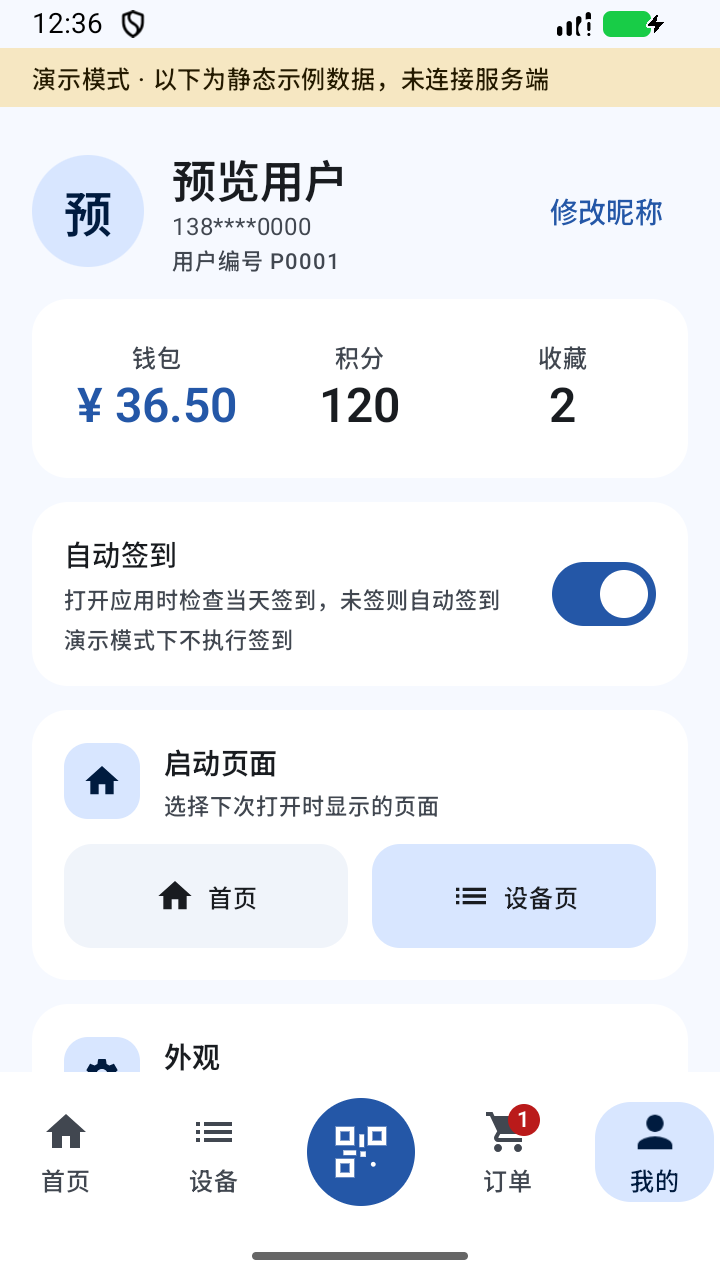
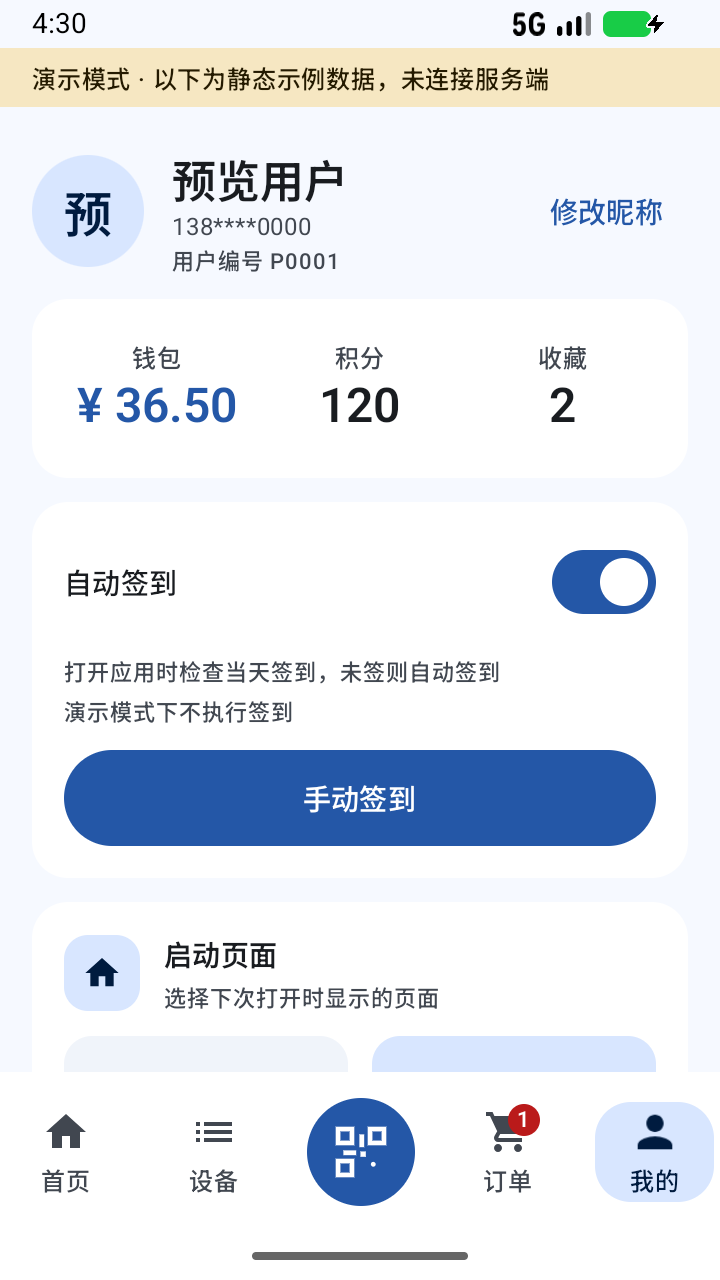
chore(release): 1.13.0
准备 versionCode 42 与同签名本地 APK，同步版本、当前我的截图及验证边界。
界面回归等待我的页面可访问后再定位手动入口，避免导航过渡导致误滚动。
未打 tag、未发布 Release。

diff --git a/SmartLife798/app/src/androidTest/java/com/smartlife798/app/CheckInUiChecks.kt b/SmartLife798/app/src/androidTest/java/com/smartlife798/app/CheckInUiChecks.kt
@@ -169,8 +169,8 @@ object CheckInUiChecks {
 
             stage = "My page keeps manual action available when automation is off"
             click(test, "我的")
-            reveal(test, "手动签到")
             await { find(test, "自动签到开关") != null }
+            reveal(test, "手动签到")
             click(test, "自动签到开关")
             await { !vm.autoCheckIn.value && !Store.autoCheckIn() }
             check(actionNode(test, "手动签到").isEnabled)
@@ -307,6 +307,7 @@ object CheckInUiChecks {
                 ?: error("Scrollable page unavailable")
             check(scroll.performAction(AccessibilityNodeInfo.ACTION_SCROLL_FORWARD))
             test.waitForIdleSync()
+            SystemClock.sleep(150)
         }
         error("UI action not visible")
     }

diff --git a/README.md b/README.md
@@ -5,7 +5,7 @@
 | | |
 |---|---|
 | 新客户端包名 | `com.smartlife798.app` |
-| 当前版本 | `1.12.0`（`versionCode 41`） |
+| 当前版本 | `1.13.0`（`versionCode 42`） |
 | 技术栈 | Kotlin 2.2 · Jetpack Compose (Material 3 Expressive) · OkHttp · CameraX + ML Kit · Alipay / WeChat SDK |
 | 最低版本 | Android 7.0（API 24） |
 | 最新已发布 | [1.9.7 APK](https://github.com/wu-shanglin/Smartlife798/releases/download/v1.9.7/SmartLife798-1.9.7-debug.apk) · [Release 说明](https://github.com/wu-shanglin/Smartlife798/releases/tag/v1.9.7) |
@@ -14,7 +14,7 @@
 
 ## 当前版本
 
-- **1.12.0：弹性联动与账号功能（本地交付准备，未发布）**。设备筛选、模式、支付方式与设置选择使用官方按钮组相互挤压回弹，刷新使用中性容器与主题主色形变；支持修改昵称、网络头像、服务端记住「使用积分」，以及可关闭的默认每日自动签到。请求防重发、失败保留及演示隔离已验证；真实服务端接受与积分入账仍待验。最新已发布仍为 1.9.7，以下发布策略针对该版本；工程证据与未验边界见 [docs/05](docs/05-真实支付与计费实测.md#9-工程验证记录)。
+- **1.13.0：签到结果反馈与手动入口（本地交付准备，未发布）**。首页也会提示自动签到结果；「我的」可关闭自动签到并手动签到，处理中显示形变加载并防重复。先查询、提交后确认，失败原因可见，自动不重发不明请求，手动可明确重试；兼容原版缺省周位图。修复退出/迟到登录、账号缓存隔离、提示遮挡导航和窄屏按钮覆盖。昵称、记住使用积分及网络头像已复核；真实服务端接受与入账仍待验。最新已发布仍为 1.9.7，工程证据与未验边界见 [docs/05](docs/05-真实支付与计费实测.md#9-工程验证记录)。
 
 - **1.9.7：详情加载与更新进度**。合并详情首载期间的刷新，避免取消重发；更新进度固定在弹窗按钮上方，仅显示进度和状态，不随日志滚动。已正式发布普通更新，最低支持码保留 37，1.9.6 用户可稍后更新。
 - **1.9.6：强制更新返回退出**。返回退出应用并保留更新限制，重新打开仍须更新；下载忙碌时也可退出，外部点击不能绕过。普通更新返回只关闭弹窗。旧 APK 的返回行为需升级后才能修复。
@@ -49,7 +49,7 @@
 
 | 本地构建 | 文件 |
 |---|---|
-| 产物 | [`dist/SmartLife798-1.12.0-debug.apk`](dist/SmartLife798-1.12.0-debug.apk) |
+| 产物 | [`dist/SmartLife798-1.13.0-debug.apk`](dist/SmartLife798-1.13.0-debug.apk) |
 
 原 APK、静态分析缓存、`evidence/` 及 APK 不入库。原样本、签名、本机配置、当前交付和独有证据须保留；清理规则见 [文档与目录维护](docs/06-工程规范与路线图.md#4-文档与目录维护)。
 

diff --git a/docs/02-功能设计与UI方案.md b/docs/02-功能设计与UI方案.md
@@ -354,7 +354,7 @@ App
 
 ## 7. 界面截图
 
-截图使用独立无账号 API 36/36.1 模拟器（720 × 1280、360dp、默认字体）采集。设备、详情、我的与外观于 2026-10-26 使用 1.12.0 / versionCode 41 本地构建采集，同名覆盖；消费记录、待付款和账单详情保留 1.11.0 / 40；首页与深色首页保留 1.10.0 / 39；登录、扫码与手动输入保留 1.8.0 / 30 历史展示。登录页为匿名页面；其他页面使用静态演示数据，账单面板下的演示横幅被遮罩覆盖。深色图通过演示内外观选择，外观与启动页选择均不写入安装偏好。截图不代表实体扫码、启停、支付、签约或真机性能通过。
+截图使用独立无账号 API 36/36.1 模拟器（720 × 1280、360dp、默认字体）采集。我的于 2026-10-27 使用 1.13.0 / versionCode 42 本地构建采集，同名覆盖；设备、详情与外观保留 2026-10-26 的 1.12.0 / 41；消费记录、待付款和账单详情保留 1.11.0 / 40；首页与深色首页保留 1.10.0 / 39；登录、扫码与手动输入保留 1.8.0 / 30 历史展示。登录页为匿名页面；其他页面使用静态演示数据，账单面板下的演示横幅被遮罩覆盖。深色图通过演示内外观选择，外观与启动页选择均不写入安装偏好。截图不代表实体扫码、启停、支付、签约或真机性能通过。
 
 | 页面 | 文件 | 来源与限制 |
 |---|---|---|
@@ -368,5 +368,5 @@ App
 | 待付款与角标 | [preview_bills.png](../screenshots/preview_bills.png) | 1.11.0 待付款筛选，未发起支付 |
 | 账单详情 | [bill_detail.png](../screenshots/bill_detail.png) | 1.11.0 稳定视口、固定金额与付款入口；演示账单，未执行付款 |
 | 深色 | [dark.png](../screenshots/dark.png) | 1.10.0 演示内深色首页 |
-| 我的 | [me.png](../screenshots/me.png) | 1.12.0 昵称入口、头像占位、积分总额、自动签到与启动页演示 |
+| 我的 | [me.png](../screenshots/me.png) | 1.13.0 昵称入口、头像占位、默认自动签到开关及手动签到按钮；静态演示不执行真实签到 |
 | 外观 | [appearance_dark.png](../screenshots/appearance_dark.png) | 1.12.0 演示中选择深色、设置按钮组、动态取色关闭 |

diff --git a/CHANGELOG.md b/CHANGELOG.md
@@ -7,6 +7,8 @@
 
 ## [Unreleased]
 
+## [1.13.0] - 2026-10-27
+
 ### 签到与反馈
 
 - 自动签到结果通过全局提示显示，首页也能看到成功、已签、失败原因或结果待确认；提示避让实际底部导航高度。「我的」增加手动签到，自动关闭仍可使用，处理中显示官方形变加载并禁用重复点击。
@@ -17,6 +19,8 @@
 
 - 退出登录立即取消账号任务，远端退出使用旧令牌，迟到结果不清新会话，进入/退出演示后丢弃迟到登录成功；退出演示不联网不写账号存储。真实登录成功后只允许已确认同 UID 的缓存继承，清除其他账号或归属未知的缓存。
 - 窄屏按钮组溢出时保留官方按钮形变，关闭会覆盖「更多」入口的宽度扩张；全部可见时继续相邻挤压回弹。大字设置选项垂直居中，文字自然换行。
+
+本版本为本地交付准备，尚未发布 GitHub Release。
 
 ## [1.12.0] - 2026-10-26
 
